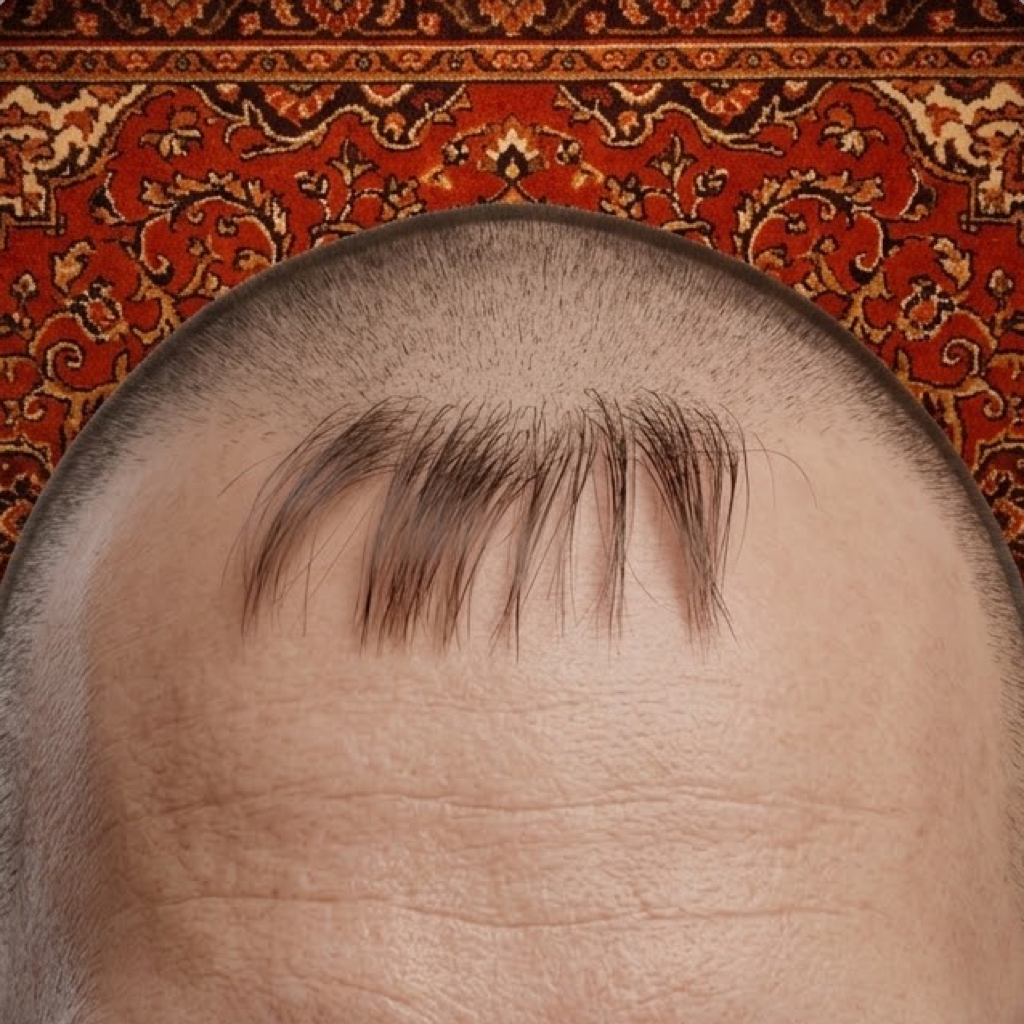
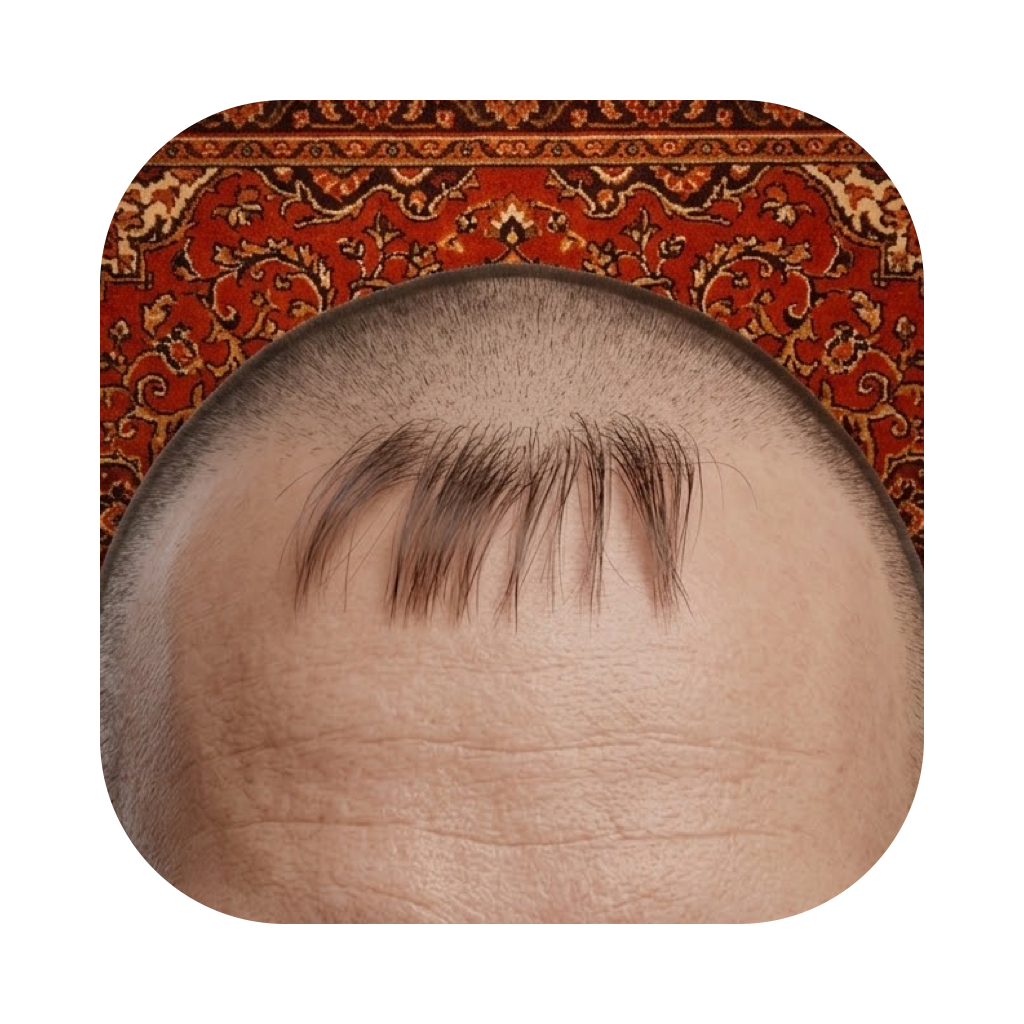
fix: иконка по сетке macOS — 824x824 со скруглением на прозрачном холсте
Полностью залитый квадрат выглядел в Launchpad крупнее остальных иконок
и с прямыми углами: система не добавляет отступы сама, они должны быть
в самом арте (тело 824x824, радиус ~185, холст 1024 с альфой).

diff --git a/scripts/make-icon.swift b/scripts/make-icon.swift
@@ -1,5 +1,7 @@
-// Готовит иконку приложения из арта: полностью залитый квадрат без полей
-// и прозрачности — кроп внутри плитки, глубже её скруглённых углов.
+// Готовит иконку приложения из арта по сетке macOS: скруглённый квадрат
+// 824x824 по центру прозрачного холста 1024x1024 (иначе иконка в Launchpad
+// выглядит крупнее остальных и с прямыми углами — система отступы не рисует).
+// Кроп берётся изнутри плитки арта, глубже её ободка и углов.
 // Запуск: swift scripts/make-icon.swift Resources/icon-art.jpg Resources/AppIcon-1024.png
 import AppKit
 
@@ -22,11 +24,18 @@ guard let img = NSImage(contentsOfFile: args[1]),
 }
 
 let out = 1024
+// Сетка Apple для macOS-иконок: тело 824x824 по центру, радиус углов ~185.
+let body = CGRect(x: 100, y: 100, width: 824, height: 824)
+let cornerRadius: CGFloat = 185.4
+
 let ctx = CGContext(data: nil, width: out, height: out, bitsPerComponent: 8, bytesPerRow: 0,
                     space: CGColorSpace(name: CGColorSpace.sRGB)!,
                     bitmapInfo: CGImageAlphaInfo.premultipliedLast.rawValue)!
 ctx.interpolationQuality = .high
-ctx.draw(cropped, in: CGRect(x: 0, y: 0, width: CGFloat(out), height: CGFloat(out)))
+ctx.addPath(CGPath(roundedRect: body, cornerWidth: cornerRadius, cornerHeight: cornerRadius,
+                   transform: nil))
+ctx.clip()
+ctx.draw(cropped, in: body)
 
 guard let result = ctx.makeImage(),
       let png = NSBitmapImageRep(cgImage: result).representation(using: .png, properties: [:]) else {
